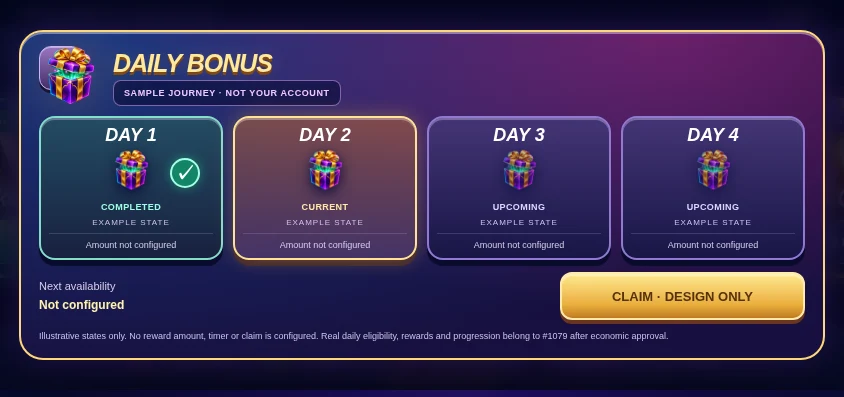
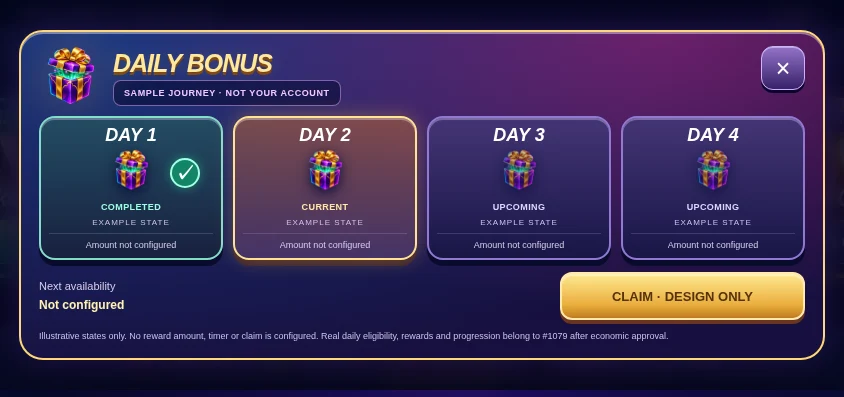
design(poker): clear compact reward close control and record review

Changed region(s): [[0.8934, 0.0907, 0.955, 0.2418], [0.0308, 0.0907, 0.0924, 0.2418]]

diff --git a/poker/designs/luxury-lobby/preview.css b/poker/designs/luxury-lobby/preview.css
@@ -213,6 +213,7 @@ dialog h2{font-size:26px;}
 @media(orientation:landscape) and (max-height:550px) and (min-width:601px){
 #dailyDialog{padding:14px 18px;}
 #dailyDialog .dialog-top .eyebrow{display:none;}
+#dailyDialog .dialog-top{justify-content:flex-end;}
 #dailyDialog .bonus-heading{margin-top:-44px;margin-right:60px;min-height:60px;}
 #dailyDialog .bonus-heading p{display:none;}
 #dailyDialog .bonus-heading img{height:60px;}

diff --git a/specs/1069-luxury-lobby/self-review.md b/specs/1069-luxury-lobby/self-review.md
@@ -31,7 +31,9 @@
 Spec/plan/tasks/research/data-model/contracts/quickstart and checklist aligned. Previous selection restrictions removed; tests remain fundamental-only with temporary browser inspection rather than a committed UI suite. No git commands in plan; no unresolved placeholder requirement. No before/after hooks (.specify/extensions.yml absent). Existing plan/tasks setup executed for the same feature directory.
 
 ## Verification evidence
-Local v2 inspection passed at 1280×800, 390×844, 844×390, 568×320, 360×640 and 320×568: five tiles/shortcuts, six decoded actual theme samples, four day examples, no horizontal overflow, touch/keyboard/focus return, disabled claim, no storage writes, platform API calls or JavaScript errors. Both hash-panel deep links and orientation resize passed. Same-document hash changes initially missed the second panel; hashchange handling now fixes this. Screenshots refreshed for all six viewports, including scrolled Daily footer. Syntax (225 files), CSP inline (55 documents), CI guards (29 XP hooks) and diff whitespace checks passed. Earlier v1 evidence is superseded and is not approval of this revision. HTTPS publication verification follows below.
+Local v2 inspection passed at 1280×800, 390×844, 844×390, 568×320, 360×640 and 320×568: five tiles/shortcuts, six decoded actual theme samples, four day examples, no horizontal overflow, touch/keyboard/focus return, disabled claim, no storage writes, platform API calls or JavaScript errors. Both hash-panel deep links and orientation resize passed. Same-document hash changes initially missed the second panel; hashchange handling now fixes this. Screenshots refreshed for all six viewports, including scrolled Daily footer. Syntax (225 files), CSP inline (55 documents), CI guards (29 XP hooks) and diff whitespace checks passed. Earlier v1 evidence is superseded and is not approval of this revision. HTTPS browser inspection also passed all six viewports on Deploy Preview for `fbde8182f73079f48198c3fb393f5994576eaff9`, with the same assertions and zero application errors/API calls/storage writes. GitHub actionlint and netlify/playkcswh/deploy-preview succeeded for that revision. SHA-256 of deployed CSS/JS and all six v2 artworks matched local source. Subsequent compact-landscape close-button alignment fix places the control at the right edge, clear of decorative art; direct touch-close verification and refreshed screenshots are included in the final publication. The final PR HEAD is additionally checked after push; no owner approval is inferred from these checks.
+
+Review URLs: [Landscape](https://deploy-preview-1078--playkcswh.netlify.app/poker/designs/luxury-lobby/landscape.html), [Portrait](https://deploy-preview-1078--playkcswh.netlify.app/poker/designs/luxury-lobby/portrait.html). Append `#daily-bonus` or `#cosmetics` for their corresponding dialogs. Browser emulation is not physical-device acceptance. 200% text enlargement remains a manual review scenario, not a verified assertion.
 
 ## Remaining gates
 Owner actual-phone visual/touch approval for both orientations and Daily Bonus/Cosmetics remains pending. T008 is unchecked. Final lobby T009–T015 and #800 preference tasks T017–T021 remain unchecked; Daily claims/history/economics belong to separate #1079. Draft remains not merge-ready. No Production/backend/DB/WS/economy change or merge.

diff --git a/specs/1069-luxury-lobby/tasks.md b/specs/1069-luxury-lobby/tasks.md
@@ -49,7 +49,7 @@
 - [x] T028 [US4] Record existing daily API/status/template limitations and separate #1079 economic/history/timing gates in specs/1069-luxury-lobby/research.md, plan.md, contracts/ui.md and data-model.md; no live campaign read/activation or ledger change.
 - [x] T029 [US4] Inspect small-screen portrait/landscape Daily Bonus layouts, disabled claim, dialog keyboard/focus and zero rewards calls; refresh poker/designs/luxury-lobby/screenshots/* and specs/1069-luxury-lobby/self-review.md using temporary browser inspection only.
 - [x] T030 [US3] Inspect all six real asset samples, Auto/default/manual selection, Classic reset and no storage writes in both orientations; update poker/designs/luxury-lobby/screenshots/* and specs/1069-luxury-lobby/self-review.md.
-- [ ] T031 [US1] Publish revised visual artifacts and SpecKit to existing Draft PR #1078 only; verify exact HEAD Netlify preview, CSS/active-art hashes/CSP and phone viewports; record in specs/1069-luxury-lobby/self-review.md.
+- [x] T031 [US1] Publish revised visual artifacts and SpecKit to existing Draft PR #1078 only; verify exact HEAD Netlify preview, CSS/active-art hashes/CSP and phone viewports; record in specs/1069-luxury-lobby/self-review.md.
 
 
 ## Dependencies / execution strategy
